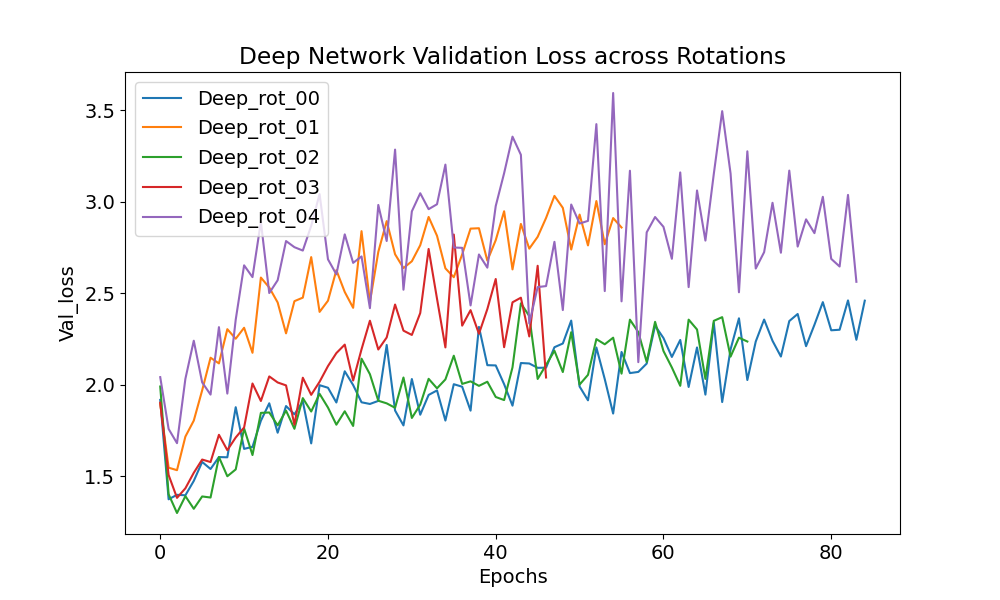
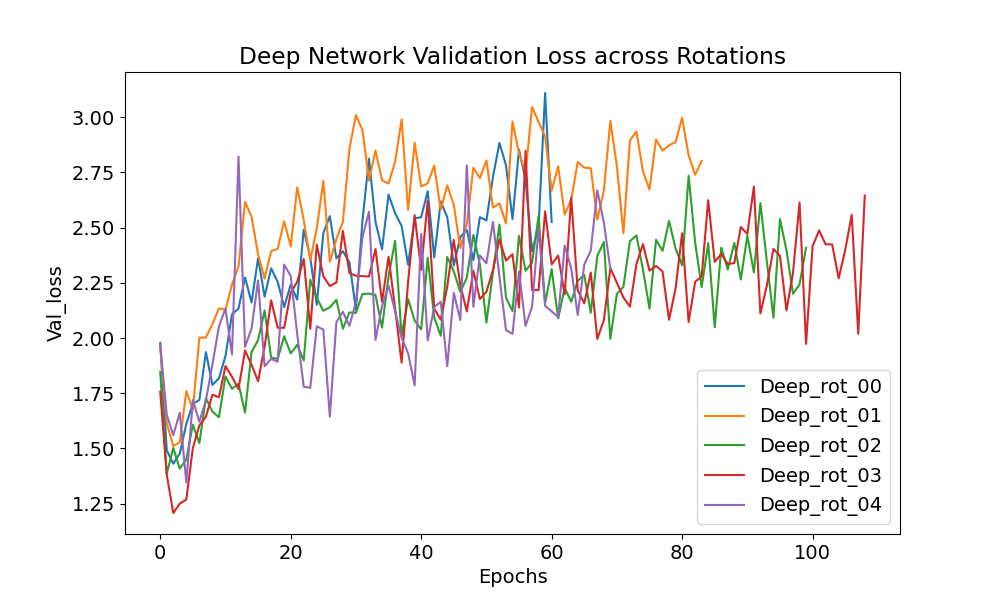
plotter update

diff --git a/hw3/plotter.py b/hw3/plotter.py
@@ -45,7 +45,7 @@ def create_parser():
     parser.add_argument('--path', type = str, default = '/home/cs504305/deep_learning_practice/homework/hw3/results',help = 'Provide path to the result file')
     parser.add_argument('--base', type = str, default = 'bmi_*results.pkl', help= 'Provide Filename structure, may use * for wildcard')
     parser.add_argument('--shallow_path', type = str, default = '/home/cs504305/deep_learning_practice/homework/hw3/results/shallow/run2/', help= 'Provide Path to Shallow Network')
-    parser.add_argument('--deep_path', type = str, default = '/home/cs504305/deep_learning_practice/homework/hw3/results/deep/run7/', help= 'Provide path to Deep Network')
+    parser.add_argument('--deep_path', type = str, default = '/home/cs504305/deep_learning_practice/homework/hw3/results/deep/run9/', help= 'Provide path to Deep Network')
     parser.add_argument('--shallow_base', type = str, default = 'image*rot*_results.pkl', help= 'Provide Filename structure for shallow results, may use * for wildcard')
     parser.add_argument('--deep_base', type = str, default = 'image*rot*_results.pkl', help= 'Provide Filename structure for Deep results, may use * for wildcard')
     # Print Figure 1 only
